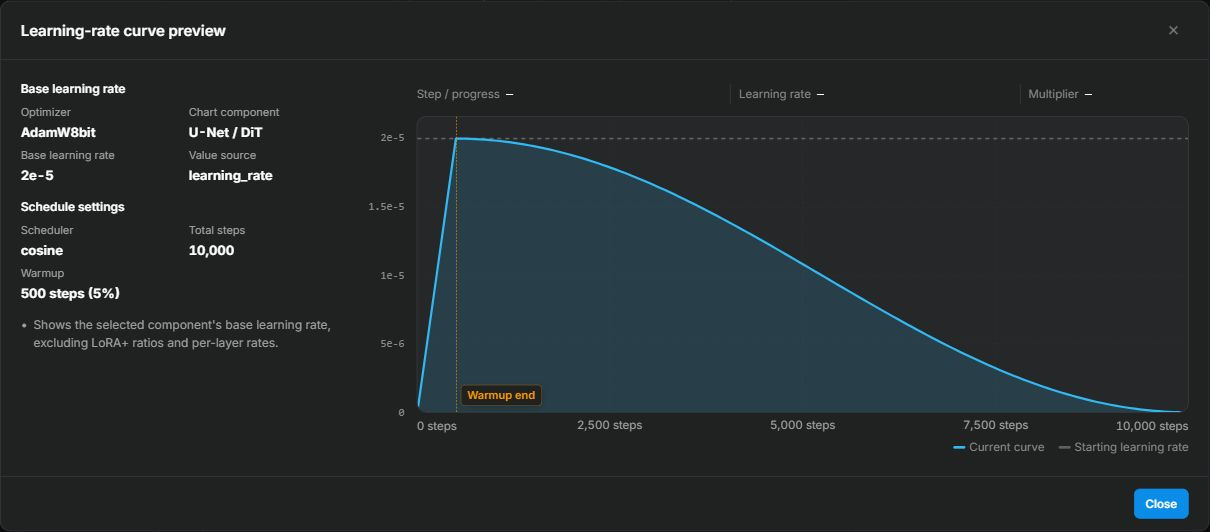
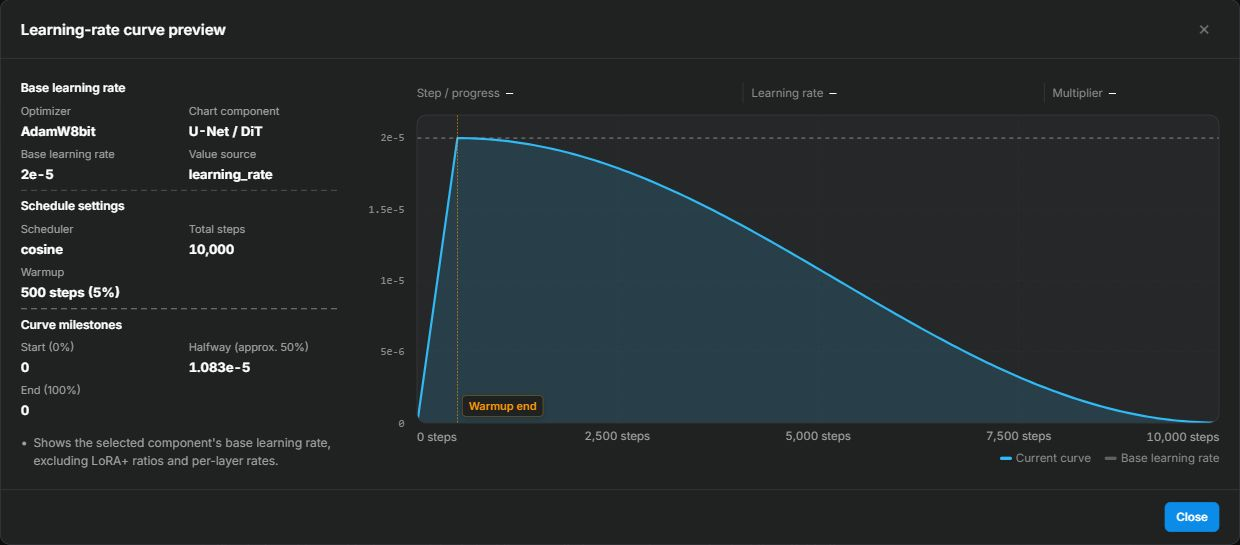
feat: 完善学习率曲线预览信息
- 显示训练开始、中途和结束时的学习率及零预热设置
- 对齐关键点与图表的训练步取整，覆盖阶梯调度边界
- 更新中英日界面文案、说明和弹窗截图

diff --git a/frontend/css/app.css b/frontend/css/app.css
@@ -2083,8 +2083,10 @@ dialog.modal-overlay::backdrop { background: transparent; }
 .preview-info-section { min-width: 0; }
 .preview-info-section h3 { margin: 0 0 10px; font-size: 12px; font-weight: 600; }
 .timestep-layout-sidebar, .lr-layout-sidebar { gap: 22px; }
-.timestep-layout-sidebar .preview-info-section + .preview-info-section { position: relative; }
-.timestep-layout-sidebar .preview-info-section + .preview-info-section::before {
+.timestep-layout-sidebar .preview-info-section + .preview-info-section,
+.lr-layout-sidebar .preview-info-section + .preview-info-section { position: relative; }
+.timestep-layout-sidebar .preview-info-section + .preview-info-section::before,
+.lr-layout-sidebar .preview-info-section + .preview-info-section::before {
   content: ''; position: absolute; inset: -11px 0 auto; height: 1px;
   background: repeating-linear-gradient(to right, color-mix(in srgb, var(--text-secondary) 55%, transparent) 0 6px, transparent 6px 10px);
 }
@@ -2097,7 +2099,8 @@ dialog.modal-overlay::backdrop { background: transparent; }
 .timestep-layout-chart:focus-visible, .lr-layout-chart:focus-visible { outline: 1px solid var(--accent); outline-offset: 5px; }
 @media (max-height: 850px) {
   .timestep-layout-sidebar, .lr-layout-sidebar { gap: 14px; }
-  .timestep-layout-sidebar .preview-info-section + .preview-info-section::before { top: -7px; }
+  .timestep-layout-sidebar .preview-info-section + .preview-info-section::before,
+  .lr-layout-sidebar .preview-info-section + .preview-info-section::before { top: -7px; }
   .timestep-preview-meta, .lr-preview-meta { gap: 6px 16px; }
   .preview-info-section h3 { margin-bottom: 6px; }
 }

diff --git a/frontend/js/training/lr-preview.js b/frontend/js/training/lr-preview.js
@@ -341,8 +341,8 @@ window.trainingLrPreviewMixin = {
       chartLabel: `${this.t('lrPreview.learningRateAxis', 'Learning rate')} · ${chartComponent}`,
       totalSteps,
       totalStepsText: totalSteps > 0 ? Number(totalSteps).toLocaleString() : '',
-      warmupVisible: warmup.visible && !unavailable,
-      warmupLabel: warmup.label,
+      warmupVisible: !unavailable,
+      warmupLabel: warmup.label || `0 ${this.t('lrPreview.stepsUnit', 'steps')}`,
       warmupX,
       warmupEstimated: !!warmup.estimated,
       warning: !!unavailable || warmup.estimated || !totalSteps,
@@ -352,6 +352,10 @@ window.trainingLrPreviewMixin = {
       params,
       unavailable,
       chartRate,
+      milestoneRates: unavailable ? [] : [0, 0.5, 1].map(progress => {
+        const stepProgress = totalSteps > 0 ? Math.round(progress * totalSteps) / totalSteps : progress;
+        return this._lrPreviewFormatRate(chartRate * evaluateMultiplier(stepProgress));
+      }),
       yTicks: [1, 0.75, 0.5, 0.25, 0].map((fraction, index) => {
         const value = fraction * peak;
         return {

diff --git a/frontend/index.html b/frontend/index.html
@@ -1837,6 +1837,14 @@
           </template>
         </div>
         </section>
+        <section class="preview-info-section" x-show="lrPreviewData && !lrPreviewData.unavailable">
+          <h3 x-text="t('lrPreview.milestones')"></h3>
+          <div class="lr-preview-meta">
+            <span><small x-text="t('lrPreview.atStart')"></small><b x-text="lrPreviewData?.milestoneRates[0]"></b></span>
+            <span><small x-text="t('lrPreview.atMiddle')"></small><b x-text="lrPreviewData?.milestoneRates[1]"></b></span>
+            <span><small x-text="t('lrPreview.atEnd')"></small><b x-text="lrPreviewData?.milestoneRates[2]"></b></span>
+          </div>
+        </section>
         <div class="lr-preview-notes" :class="{'preview-warning': lrPreviewData?.warning}" x-show="lrPreviewData && lrPreviewData.notes.length">
           <template x-for="(note, index) in (lrPreviewData ? lrPreviewData.notes : [])" :key="index">
             <div><span aria-hidden="true">•</span><span x-text="note"></span></div>

diff --git a/docs/parameters/optimizers.en-US.md b/docs/parameters/optimizers.en-US.md
@@ -121,7 +121,7 @@ The `piecewise_constant` `step_rules` format is `multiplier:cumulative_end_step,
 
 This scheduler fixes `lr_warmup_steps` at `0`. On the sd-scripts path, boundaries use scheduler steps, which the preview converts to training steps for multiple processes. Staircases with boundaries require a total-step estimate.
 
-Open **View learning-rate curve** under the schedule field to inspect warmup, decay, and restarts. The sidebar shows the selected component's effective learning rate and warmup steps. When training both the DiT and text encoder, switch components to inspect their curves separately. The preview shows an estimation notice while total steps are unknown. The curve represents scheduler output; adaptive optimizers calculate their internal step sizes during training.
+Open **View learning-rate curve** under the schedule field to inspect warmup, decay, and restarts. The sidebar shows the selected component's base rate, warmup, and rates at the start, midpoint, and end of training. When more than one component is available, switch between their curves, for example when training both DiT and the text encoder or using Krea 2 LoRA+. The preview shows an estimation notice while total steps are unknown. The curve represents scheduler output; adaptive optimizers calculate their internal step sizes during training.
 
 ![Learning-rate curve in the ComfyUI theme: 10,000 steps, 500 warmup steps, and cosine decay](../images/lr-preview.en-US.png)
 
